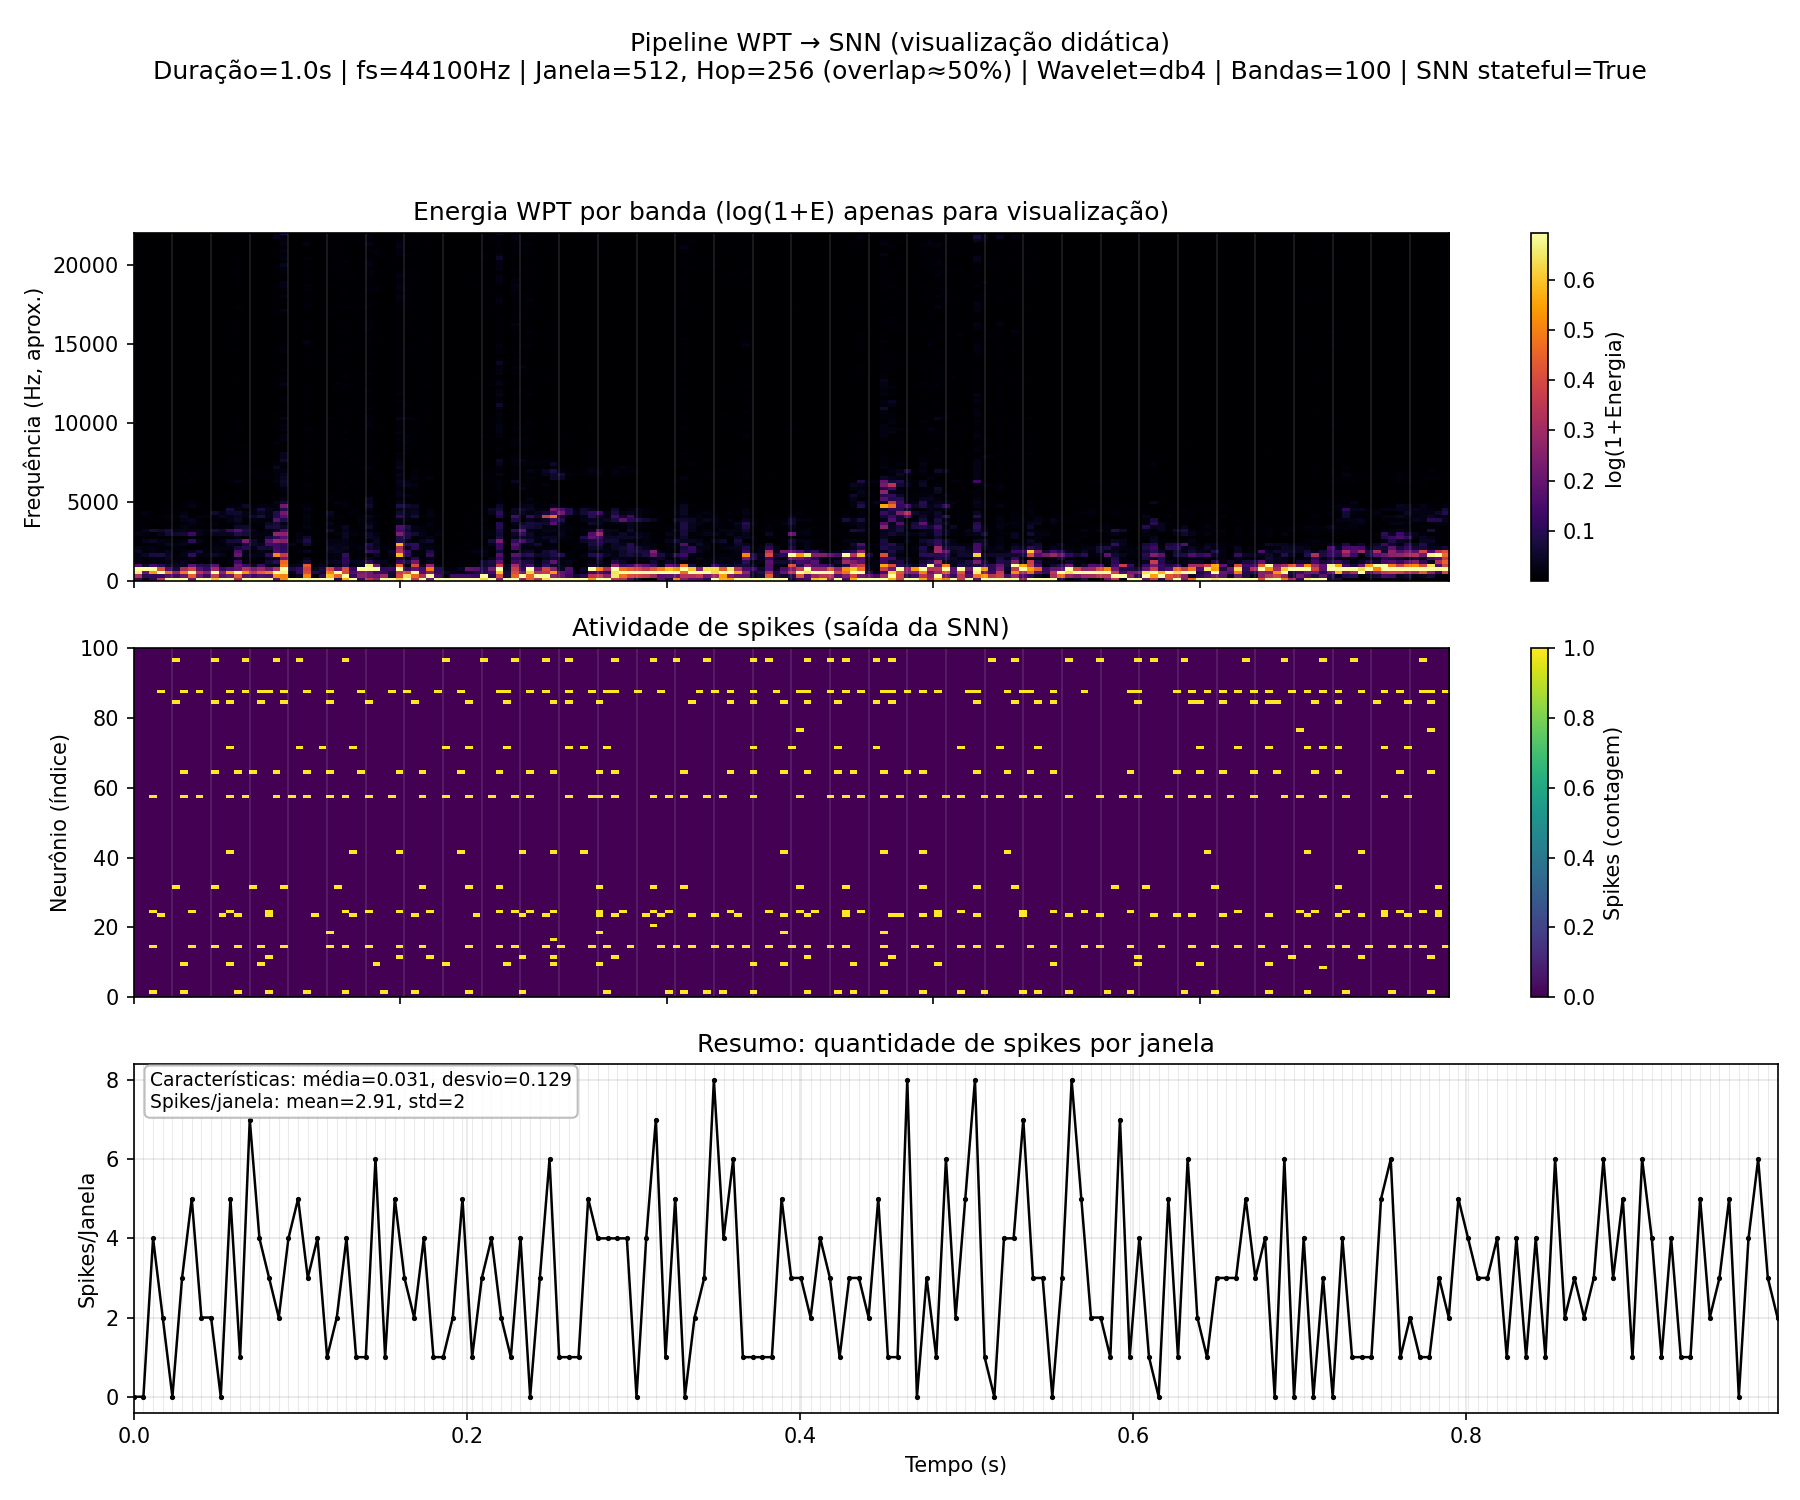
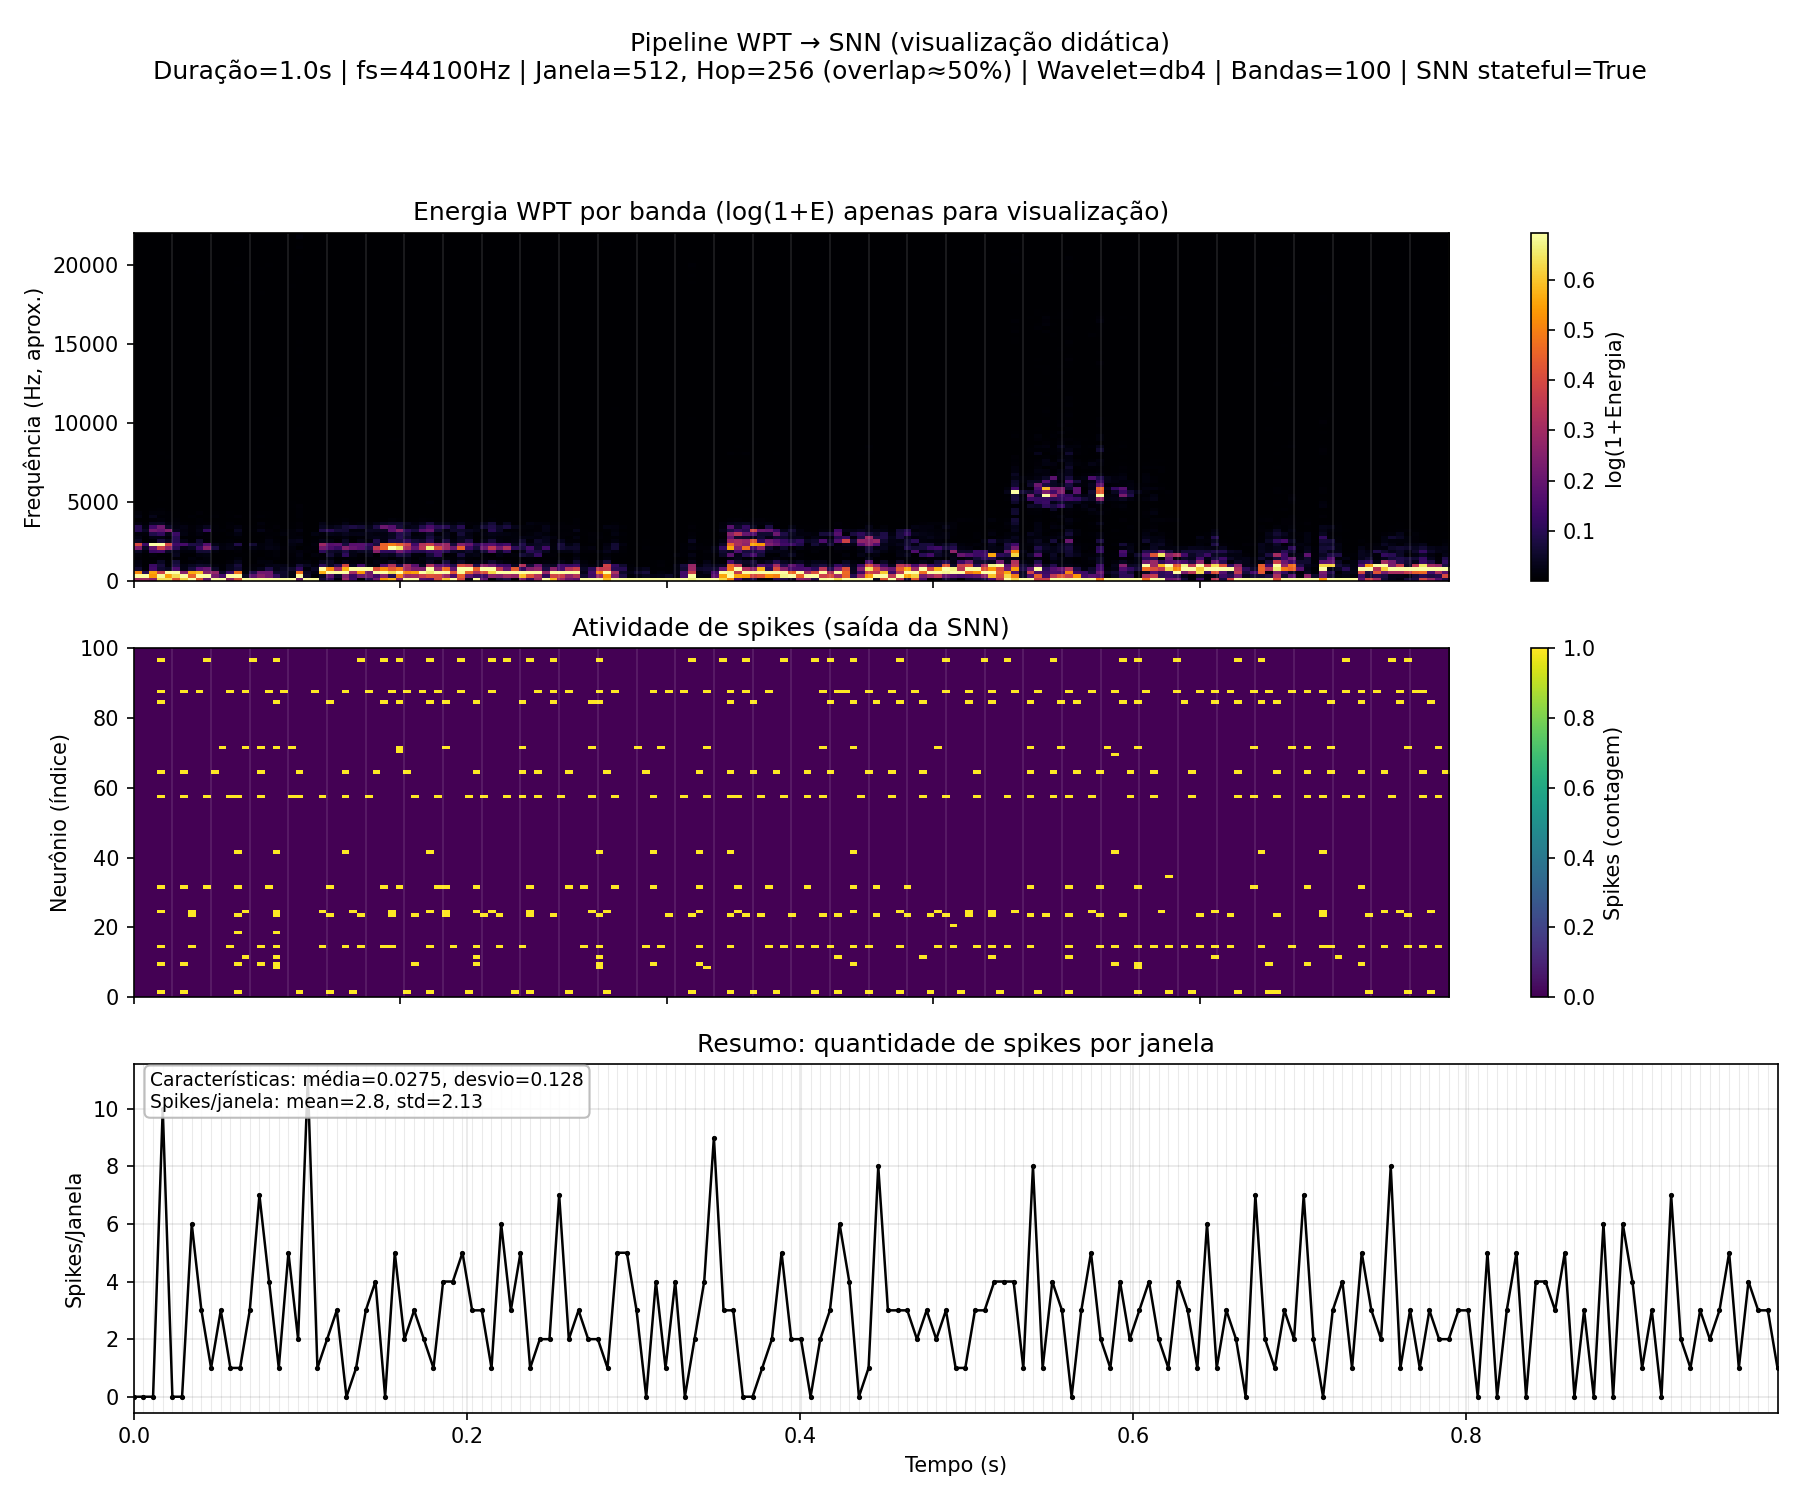
Better organizing

diff --git a/software/nn/src/demos/pydemos/app/comandos.py b/software/nn/src/demos/pydemos/app/comandos.py
@@ -28,7 +28,7 @@ from infra.visualizacao import plotar_resultados
 def cmd_demo(args: argparse.Namespace) -> None:
     """Demo visual: pipeline WPT -> preprocess -> codificação Poisson -> SNN -> plots."""
 
-    # Configurações da extração e da SNN para este demo visual.
+    # Configurações da extração e da SNN.
     cfg_extracao = ConfigExtracao(
         taxa_amostragem=args.taxa_amostragem,
         tamanho_janela=args.tamanho_janela,
@@ -37,6 +37,8 @@ def cmd_demo(args: argparse.Namespace) -> None:
         num_bandas=args.num_bandas,
         duracao_referencia=args.duracao,
     )
+
+    # Configurações da SNN.
     cfg_snn = ConfigSNN(
         passos_por_janela=args.passos_por_janela,
         profundidade=getattr(args, "profundidade", None),
@@ -52,31 +54,45 @@ def cmd_demo(args: argparse.Namespace) -> None:
 
     # Modelo com saída do mesmo tamanho das entradas.
     rede_neural = criar_modelo_snn(
-        num_inputs=cfg_extracao.num_bandas,
-        num_outputs=cfg_extracao.num_bandas,
-        profundidade=getattr(args, "profundidade", None),
+        numero_de_entradas=cfg_extracao.num_bandas,
+        numero_de_saidas=cfg_extracao.num_bandas,
+        qtde_de_blocos_residuais=cfg_snn.profundidade,
     )
+
+    # Modo avaliação.
     rede_neural.eval()
 
-    lista_spikes_saida = []
+    # Processa cada janela e coleta spikes de saída.
+    lista_de_pulsos_de_saida = []
+
+    # Desabilita gradientes
     with torch.no_grad():
-        state = None
+
+        # Estado inicial da SNN (None = zeros).
+        estado = None
+
         # Processa cada janela; soma spikes ao longo do tempo para plot.
-        for c in caracteristicas:
-            xb = torch.tensor(c, dtype=torch.float32).unsqueeze(0)
-            spk_in = codificar_poisson(
-                xb, passos=cfg_snn.passos_por_janela, adaptativo=True
+        for vetor in caracteristicas:
+
+            # Converte a janela atual para tensor (shape [1, num_bandas]).
+            tensor_de_entrada = torch.from_numpy(vetor).float().unsqueeze(0)
+
+            # Codifica a janela atual em spikes Poisson.
+            pulsos_de_entrada = codificar_poisson(
+                tensor_de_entrada, passos=cfg_snn.passos_por_janela, adaptativo=True
             )
-            spk_out_seq, state = rede_neural(spk_in, state)
+
+            # Passa os spikes pela SNN.
+            pulsos_de_saida, estado = rede_neural(pulsos_de_entrada, estado)
 
             # Para plotar por janela, agregamos os spikes ao longo dos passos.
-            spk_janela = spk_out_seq.sum(dim=0)  # [1, num_bandas]
-            lista_spikes_saida.append(spk_janela)
+            soma_dos_pulsos_por_janela = pulsos_de_saida.sum(dim=0)  # [1, num_bandas]
+            lista_de_pulsos_de_saida.append(soma_dos_pulsos_por_janela)
 
     # Gera os gráficos de características e spikes.
     plotar_resultados(
         caracteristicas,
-        lista_spikes_saida,
+        lista_de_pulsos_de_saida,
         sample_rate=cfg_extracao.taxa_amostragem,
         window_size=cfg_extracao.tamanho_janela,
         hop_size=cfg_extracao.tamanho_passo,

diff --git a/software/nn/src/demos/pydemos/services/modelos/rede_snn.py b/software/nn/src/demos/pydemos/services/modelos/rede_snn.py
@@ -30,19 +30,19 @@ class ModeloSNN(nn.Module):
     def __init__(
         self,
         tamanho_da_entrada: int = 100,
-        quantidade_de_classes: int | None = None,
+        quantidade_de_saidas: int | None = None,
         tamanho_da_camada_escondida: int = 100,
         beta: float = 0.9,
-        num_blocos_residuais: int = 3,
+        numero_de_blocos_residuais: int = 3,
     ):
         super().__init__()
         self.num_entradas = tamanho_da_entrada
         self.num_ocultos = tamanho_da_camada_escondida
 
-        if quantidade_de_classes is None or quantidade_de_classes <= 0:
-            raise ValueError("`quantidade_de_classes` não pode ser None ou <= 0.")
+        if quantidade_de_saidas is None or quantidade_de_saidas <= 0:
+            raise ValueError("`quantidade_de_saidas` não pode ser None ou <= 0.")
 
-        self.num_saidas = quantidade_de_classes
+        self.num_saidas = quantidade_de_saidas
 
         self.escala_entrada = 1.0
 
@@ -51,11 +51,11 @@ class ModeloSNN(nn.Module):
         self.lif_in = snn.Leaky(beta=beta)
 
         # Blocos residuais profundos
-        self.num_blocos_residuais = num_blocos_residuais
+        self.num_blocos_residuais = numero_de_blocos_residuais
         self.res_blocks = nn.ModuleList(
             [
                 ResidualSNNBlock(tamanho_da_camada_escondida, beta=beta)
-                for _ in range(num_blocos_residuais)
+                for _ in range(numero_de_blocos_residuais)
             ]
         )
 
@@ -185,20 +185,23 @@ class ModeloSNN(nn.Module):
 
 
 def criar_modelo_snn(
-    *, num_inputs: int = 100, num_outputs: int | None = None, profundidade: int = 3
+    *,
+    numero_de_entradas: int = 100,
+    numero_de_saidas: int | None = None,
+    qtde_de_blocos_residuais: int = 3,
 ):
     # Regra de inicialização determinística (reprodutibilidade do demo).
     torch.manual_seed(42)
 
     # Parâmetros padrão.
-    if profundidade is None:
-        profundidade = 3
+    if qtde_de_blocos_residuais is None:
+        qtde_de_blocos_residuais = 3
 
     # Cria e retorna o modelo SNN.
     return ModeloSNN(
-        tamanho_da_entrada=num_inputs,
-        quantidade_de_classes=num_outputs,
-        num_blocos_residuais=int(profundidade),
+        tamanho_da_entrada=numero_de_entradas,
+        quantidade_de_saidas=numero_de_saidas,
+        numero_de_blocos_residuais=int(qtde_de_blocos_residuais),
     )
 
 

diff --git a/software/nn/src/demos/pydemos/services/identificacao_locutor.py b/software/nn/src/demos/pydemos/services/identificacao_locutor.py
@@ -44,9 +44,9 @@ def treinar_classificador_locutor(
     num_classes = len(rotulos)
     # Modelo SNN simples (snntorch) com saída = número de pessoas.
     model = criar_modelo_snn(
-        num_inputs=cfg_extracao.num_bandas,
-        num_outputs=num_classes,
-        profundidade=num_blocos_residuais,
+        numero_de_entradas=cfg_extracao.num_bandas,
+        numero_de_saidas=num_classes,
+        qtde_de_blocos_residuais=num_blocos_residuais,
     ).to(device)
     model.train()
 
@@ -146,7 +146,9 @@ def carregar_modelo_e_rotulos(
 
     # Reconstrói o modelo com a mesma dimensão de saída e profundidade.
     model = criar_modelo_snn(
-        num_inputs=num_inputs, num_outputs=len(rotulos), profundidade=profundidade_final
+        numero_de_entradas=num_inputs,
+        numero_de_saidas=len(rotulos),
+        qtde_de_blocos_residuais=profundidade_final,
     ).to(device)
     sd = torch.load(caminho_modelo, map_location=device)
     model.load_state_dict(sd)
